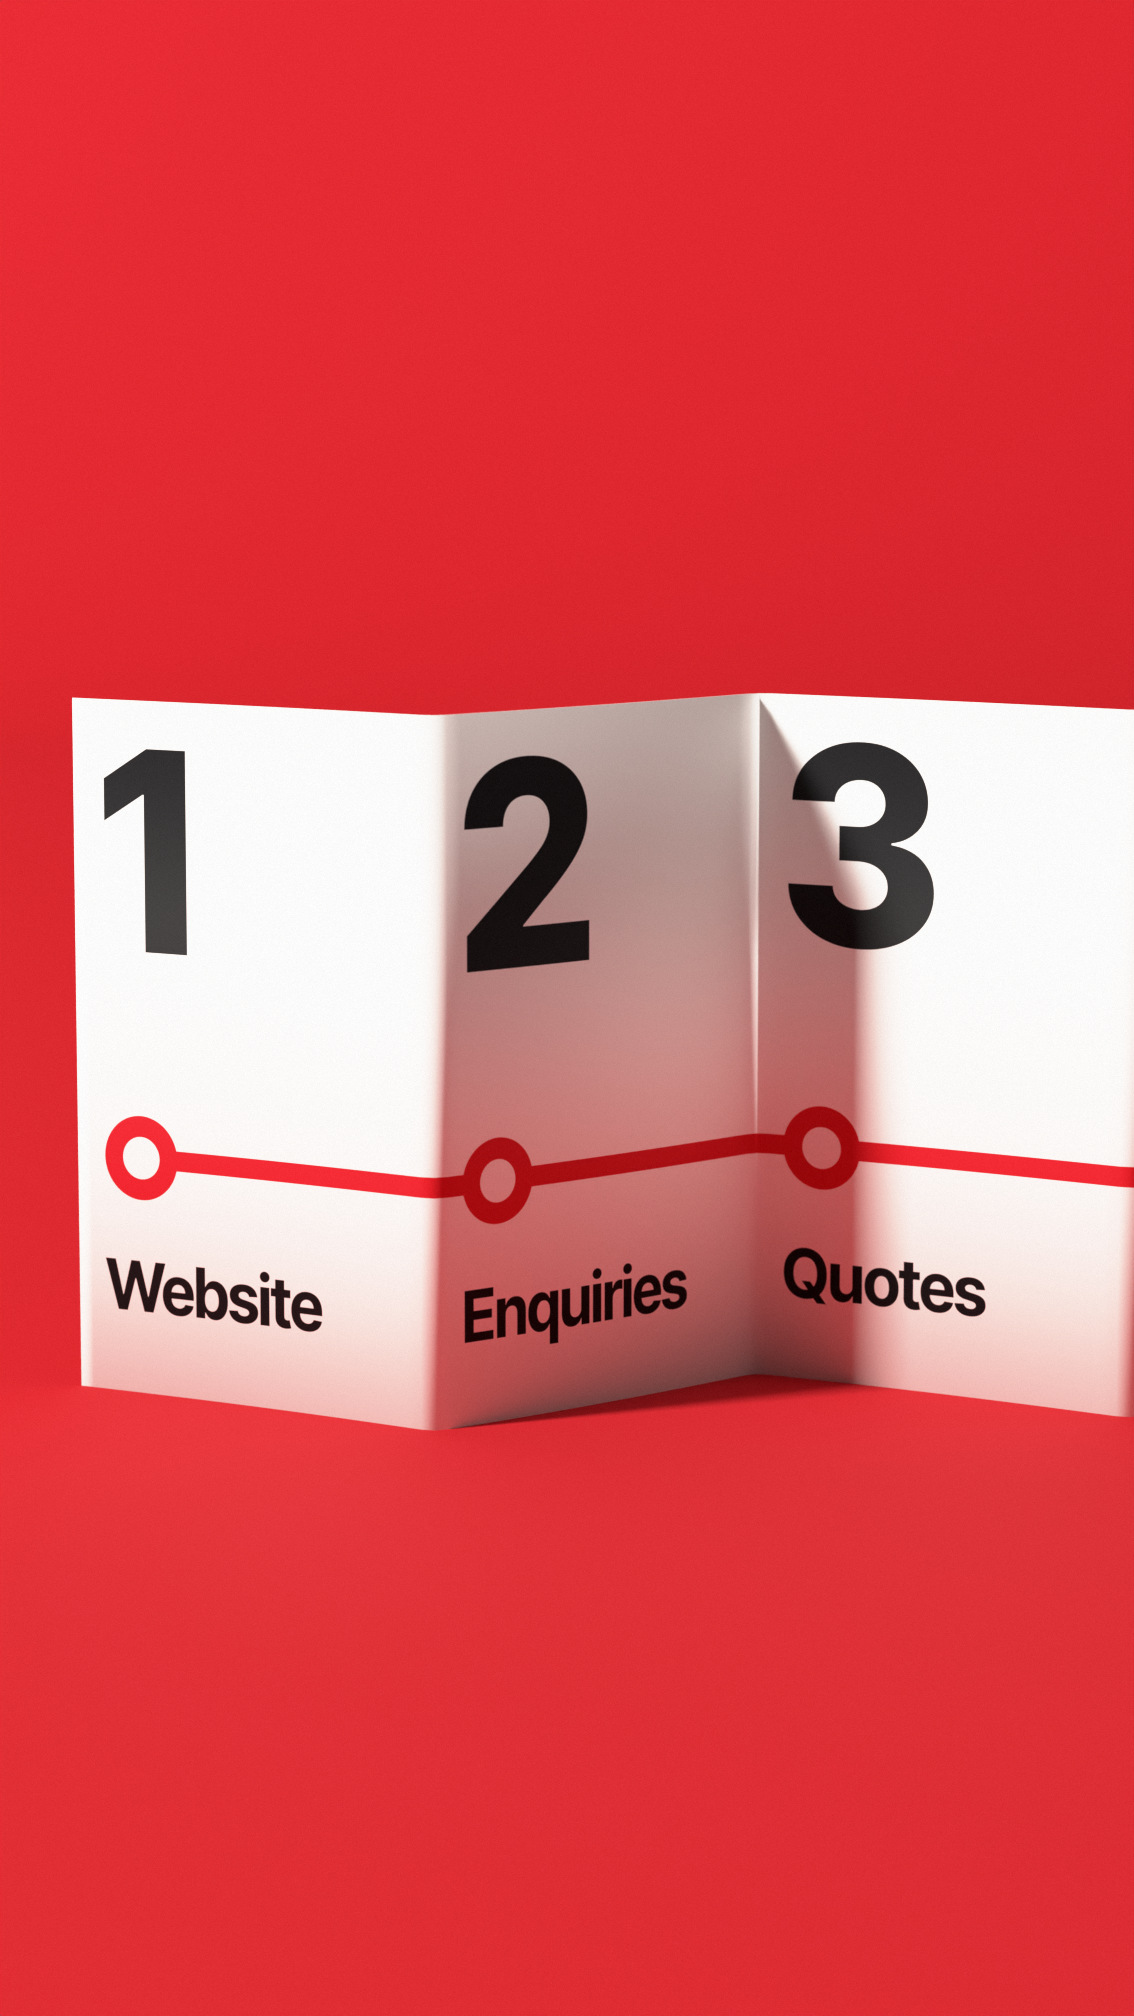
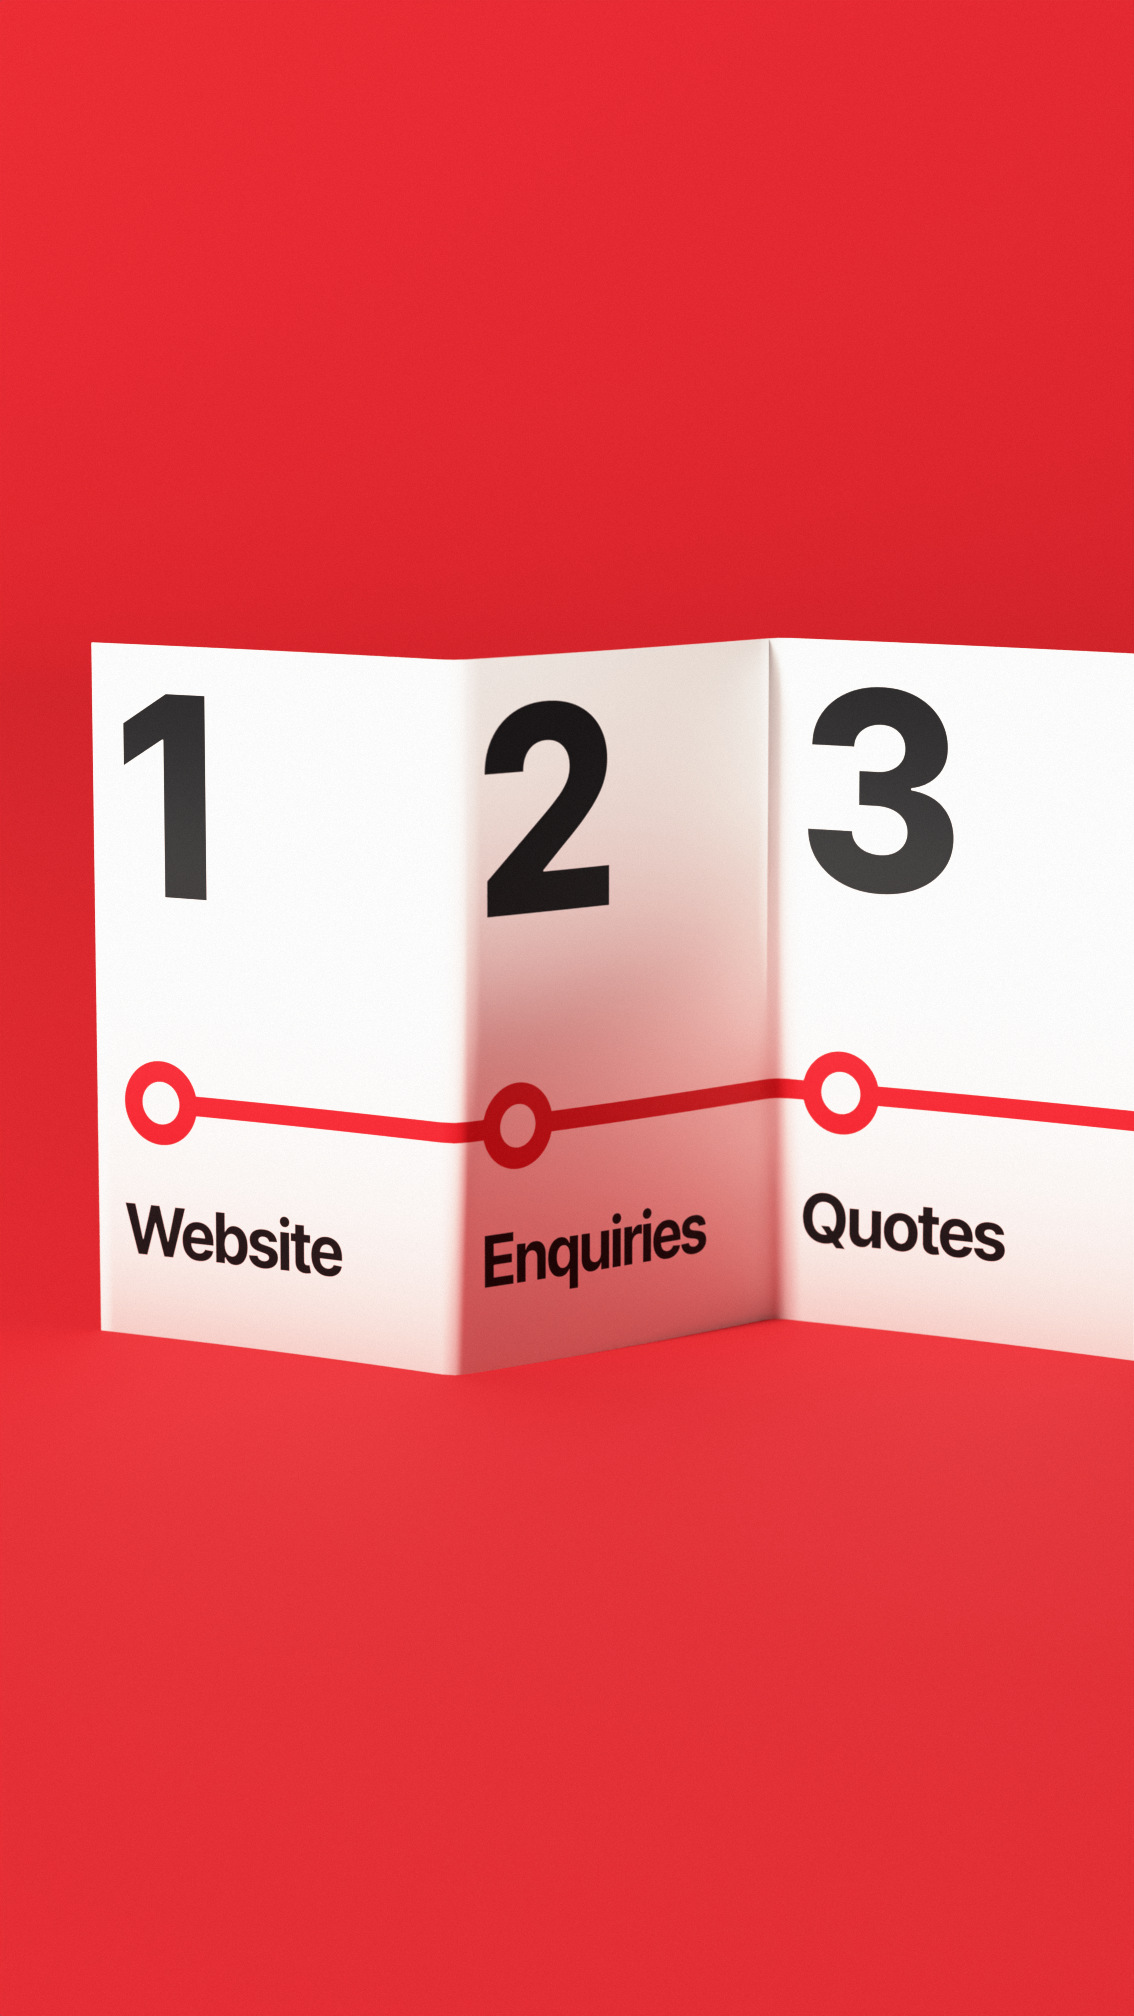
One-sheet Reel: round-two hero renders
Claude-Session: https://claude.ai/code/session_015dF8tjRtXFQT5B7bHmt6t3

Changed region(s): [[0.0617, 0.3125, 1.0, 0.7188]]

diff --git a/posts/2026-11-22-1433-one-sheet/art/reel.html b/posts/2026-11-22-1433-one-sheet/art/reel.html
@@ -19,7 +19,7 @@
 @keyframes go{from{transform:translateX(var(--x0))}to{transform:translateX(var(--x1))}}
 .h{position:absolute;left:78px;top:262px;font-family:InterTight;font-weight:800;font-size:104px;letter-spacing:-.022em;word-spacing:.04em;line-height:1.06;white-space:nowrap}
 .s1 .cam{transform-origin:78px 1000px;--len:3.6s;--b:1.02}
-.s3 .cam{transform-origin:540px 1200px;--len:3.2s;--b:1.025}
+.s3 .cam{transform-origin:78px 1200px;--len:3.2s;--a:1.02;--b:1.045}
 .s4 .cam{transform-origin:78px 1000px;--len:4.6s;--b:1.025}
 </style>
 <section class="scene s1" data-dur="3.6"><div class="cam">
